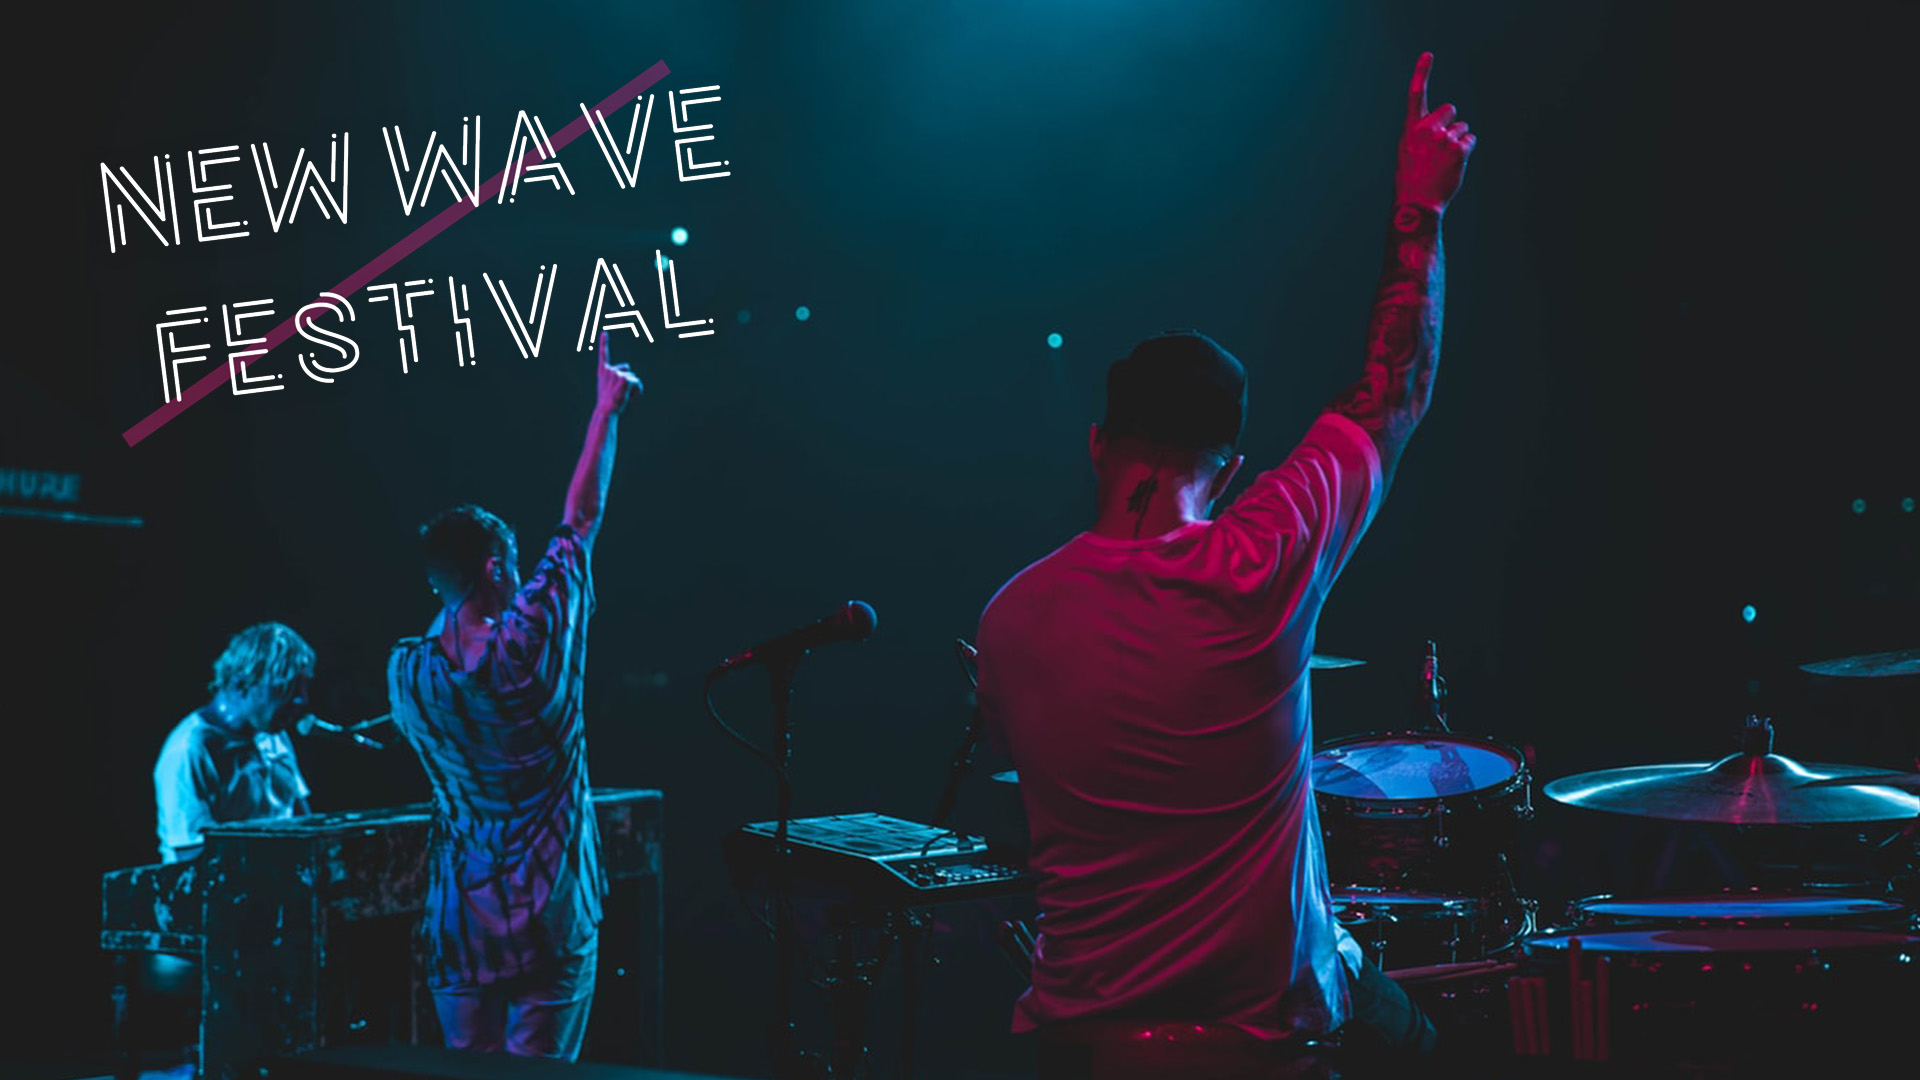
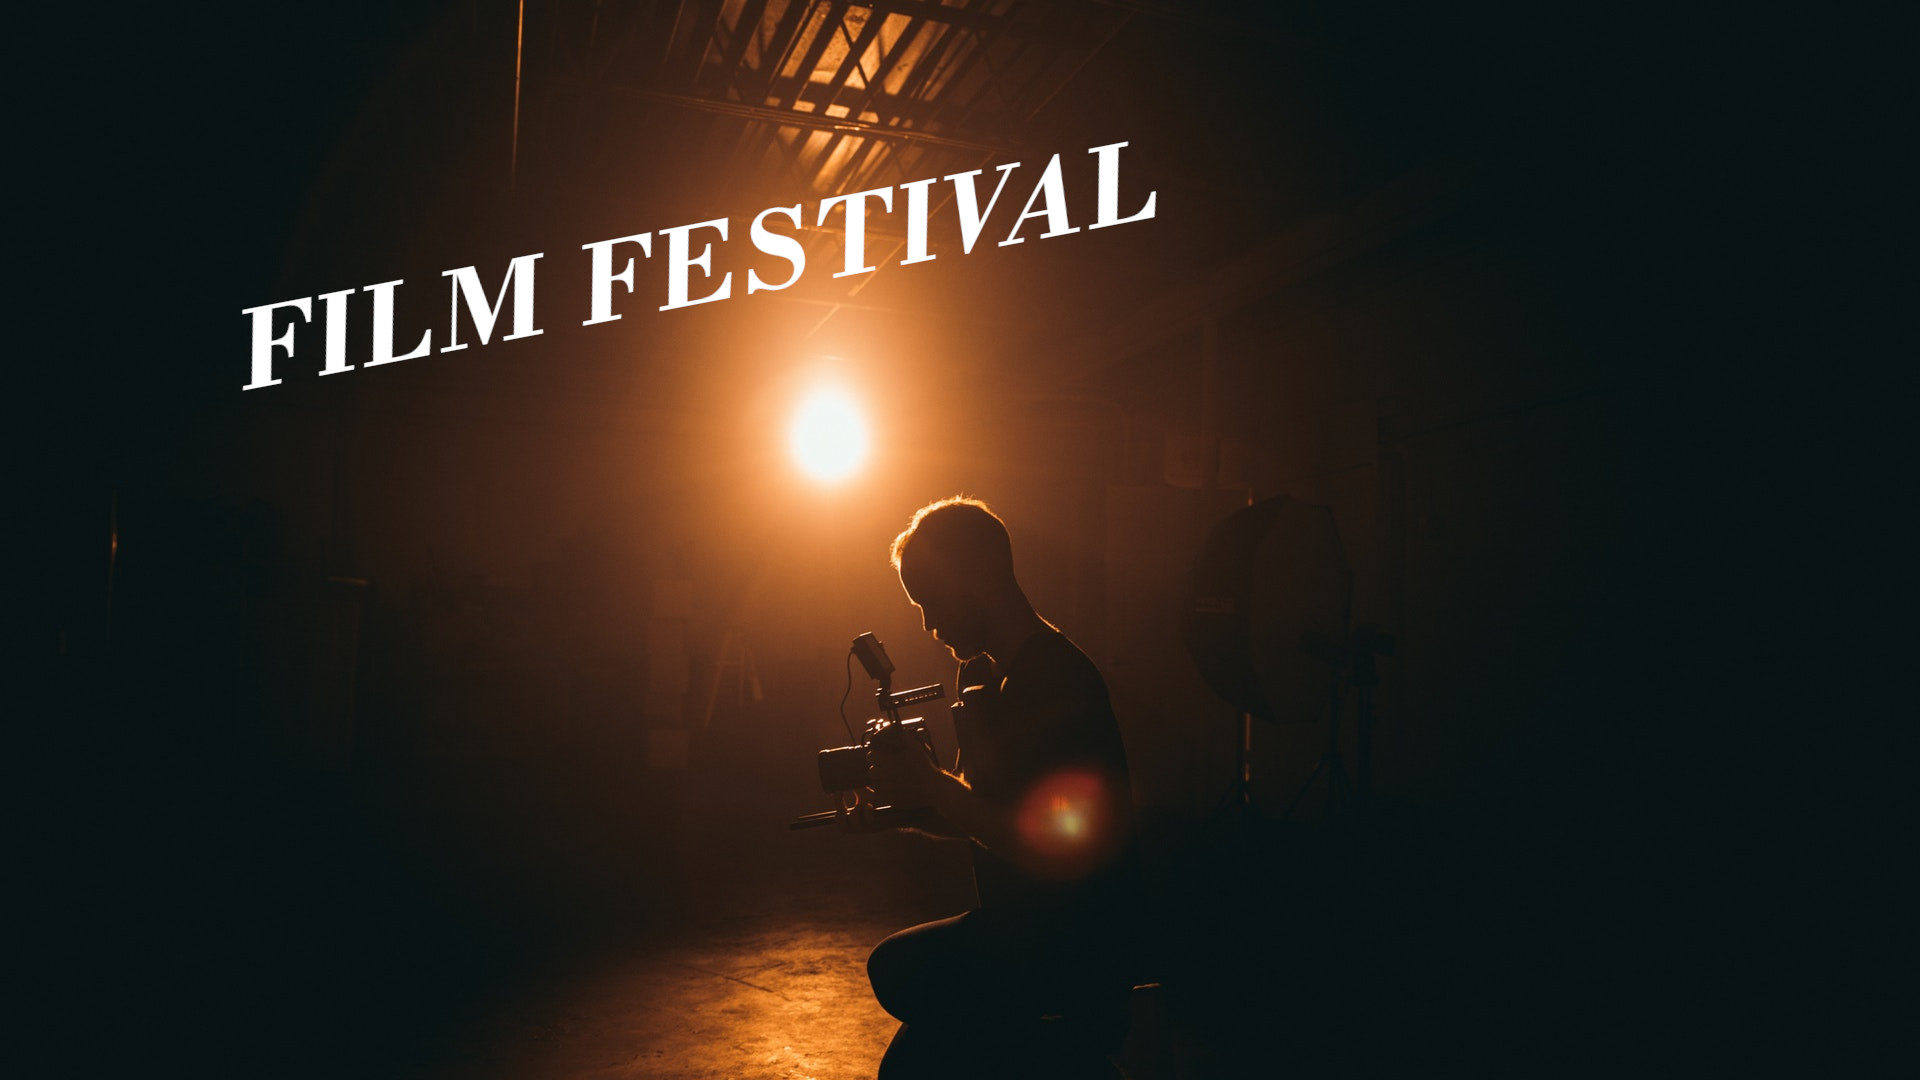
Add changes to Homepage

diff --git a/server.js b/server.js
@@ -4,7 +4,7 @@ const cors = require("cors");
 const socket = require('socket.io');
 const mongoose = require('mongoose');
 const helmet = require('helmet');
-
+require('dotenv').config();
 
 const testimonialsRoutes = require("./routes/testimonials.routes");
 const concertsRoutes = require("./routes/concerts.routes");
@@ -52,7 +52,7 @@ let dbUri = '';
 
 if(NODE_ENV === 'production') dbUri = `mongodb+srv://${process.env.login}:${process.env.secret}@cluster0.2rrxd.mongodb.net/NewWaveDB?retryWrites=true&w=majority`;
 else if(NODE_ENV === 'test') dbUri = 'mongodb://localhost:27017/NewWaveDB';
-else dbUri = `mongodb+srv://${process.env.login}:${process.env.secret}@cluster0.2rrxd.mongodb.net/NewWaveDB?retryWrites=true&w=majority`;
+else dbUri = `mongodb+srv://${process.env.user}:${process.env.password}@cluster0.2rrxd.mongodb.net/NewWaveDB?retryWrites=true&w=majority`;
 console.log(dbUri)
 
 mongoose.connect(dbUri, { useNewUrlParser: true, useUnifiedTopology: true });

diff --git a/client/src/components/features/PromoCarousel/PromoCarousel.js b/client/src/components/features/PromoCarousel/PromoCarousel.js
@@ -6,20 +6,20 @@ const items = [
   {
     src: '/img/promo/promo1.jpg',
     header: 'Great atmosphere!',
-    caption: 'Have fun with thousands of people!',
-    alt: 'Have fun with thousands of people!',
+    caption: 'Watch legendary movies with thousands of people!',
+    alt: 'Watch legendary movies with thousands of people!',
   },
   {
     src: '/img/promo/promo2.jpg',
-    altText: 'Listen to the greatest hits!',
+    altText: 'Amazing workshops!',
     caption: 'Take a part in phenomenal performances.',
-    header: 'Listen to the greatest hits',
+    header: 'Amazing workshops!',
   },
   {
     src: '/img/promo/promo3.jpg',
-    altText: 'Meet stars!',
-    caption: 'Meet the biggest music starts live!',
-    header: 'Meet stars!',
+    altText: 'Meet actors!',
+    caption: 'Ask a question to your favorite star!',
+    header: 'Meet actors!',
   }
 ];
 

diff --git a/client/src/components/layout/MainMenu/MainMenu.js b/client/src/components/layout/MainMenu/MainMenu.js
@@ -25,7 +25,7 @@ class MainMenu extends React.Component {
     return (
       <div>
         <Navbar color="dark" dark expand="md">
-          <NavbarBrand href="/">New Wave Festival</NavbarBrand>
+          <NavbarBrand href="/">Film Festival</NavbarBrand>
           <NavbarToggler onClick={this.toggle} />
           <Collapse isOpen={this.state.isOpen} navbar>
             <Nav className="ml-auto align-items-center" navbar>

diff --git a/client/src/components/layout/Footer/Footer.js b/client/src/components/layout/Footer/Footer.js
@@ -3,7 +3,7 @@ import React from 'react';
 const Footer = () => (
   <footer id="sticky-footer" className="py-4 mt-5 bg-dark text-white-50">
     <div className="text-center">
-      <small>Copyright &copy; New Wave Festival 2019</small>
+      <small>Copyright &copy; Film Festival 2021</small>
     </div>
   </footer>
 );

diff --git a/client/src/components/features/Concert/Concert.scss b/client/src/components/features/Concert/Concert.scss
@@ -36,10 +36,8 @@
 
     &__back {
       position: absolute;
-      opacity: 0.4;
-      top: 0;
-      left: 0;
-      -webkit-filter: grayscale(0.5) blur(2px);
+      bottom: 0;
+      right: 0;
     }
 
     &__performer {

diff --git a/client/src/components/pages/Home/HomePage.js b/client/src/components/pages/Home/HomePage.js
@@ -8,7 +8,7 @@ const HomePage = () => (
   <div>
     <PromoCarousel />
     <Container>
-      <h1>Who's on?</h1>
+      <h1>Movies</h1>
       <Lineup />
     </Container>
   </div>
